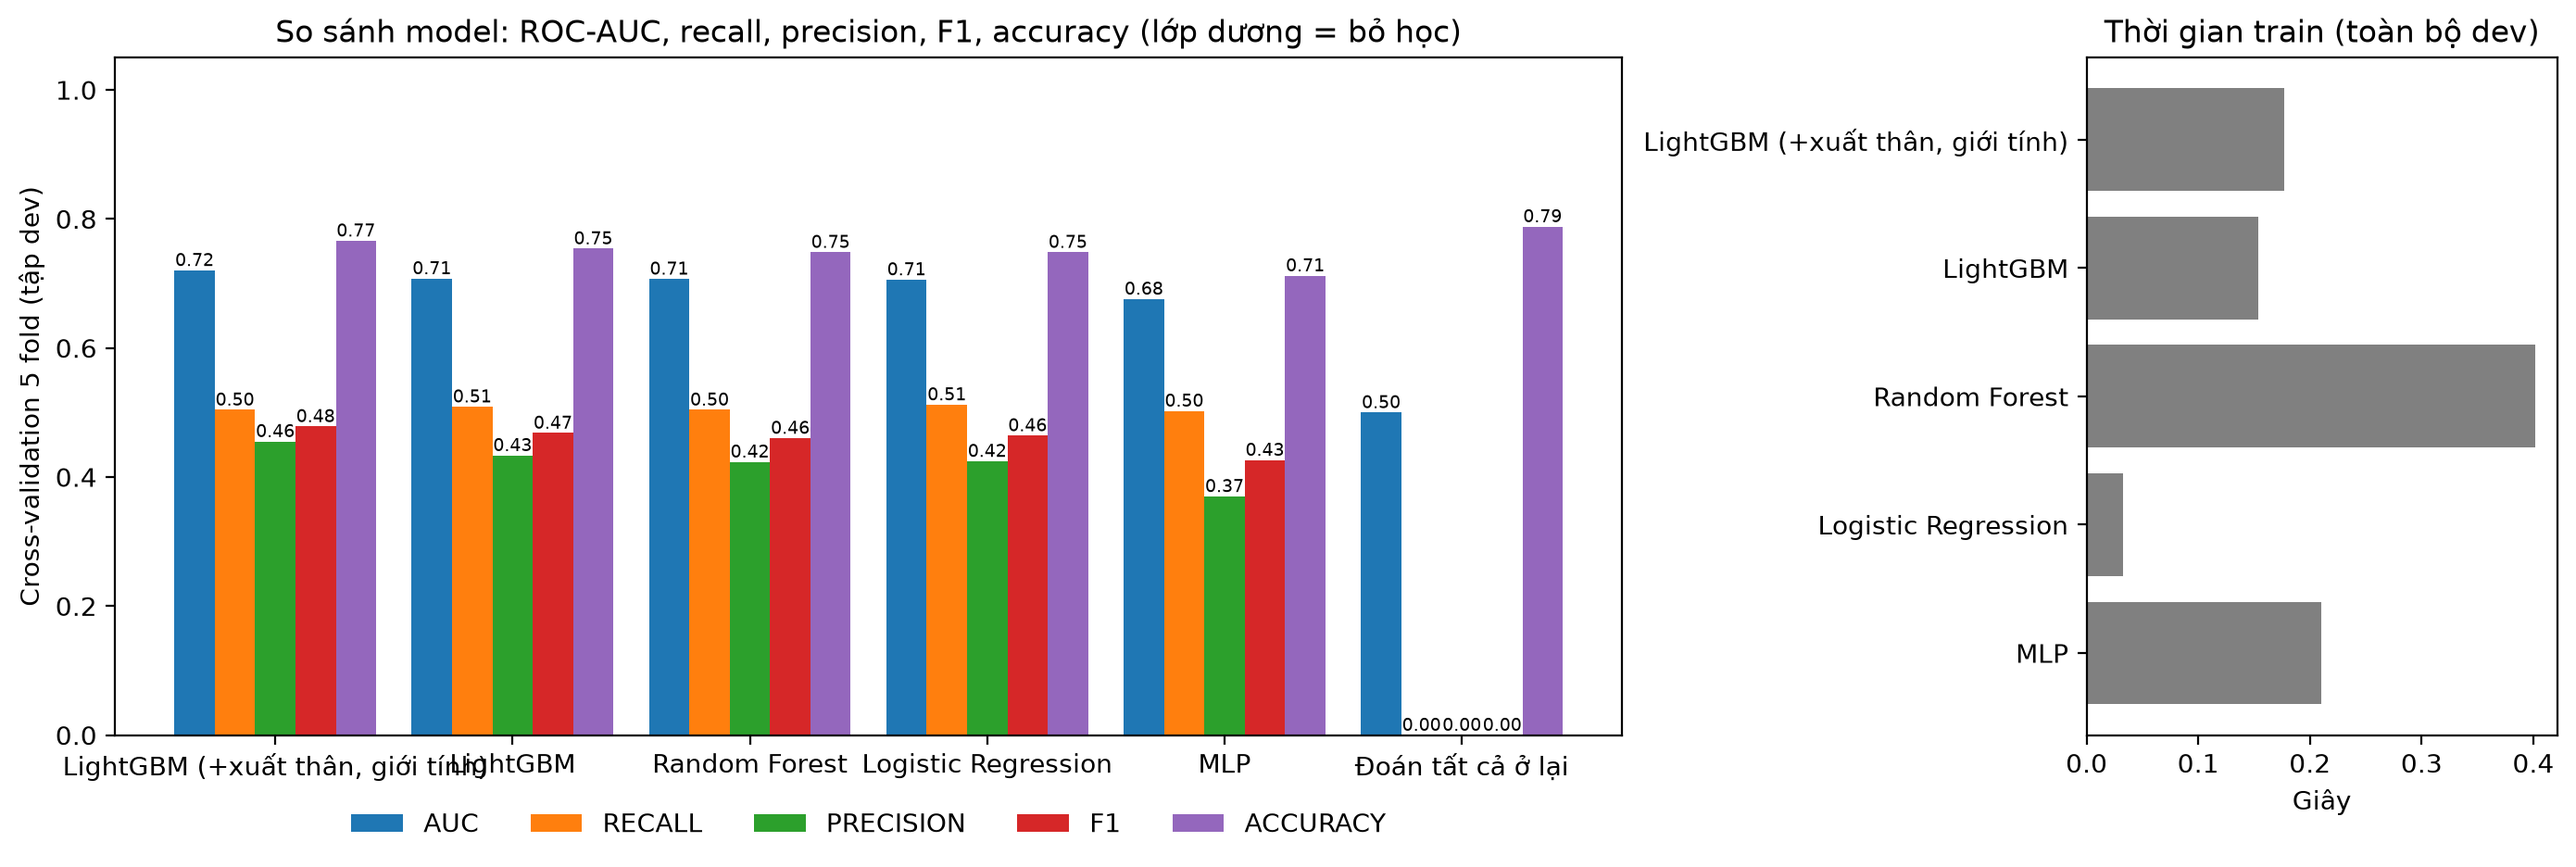
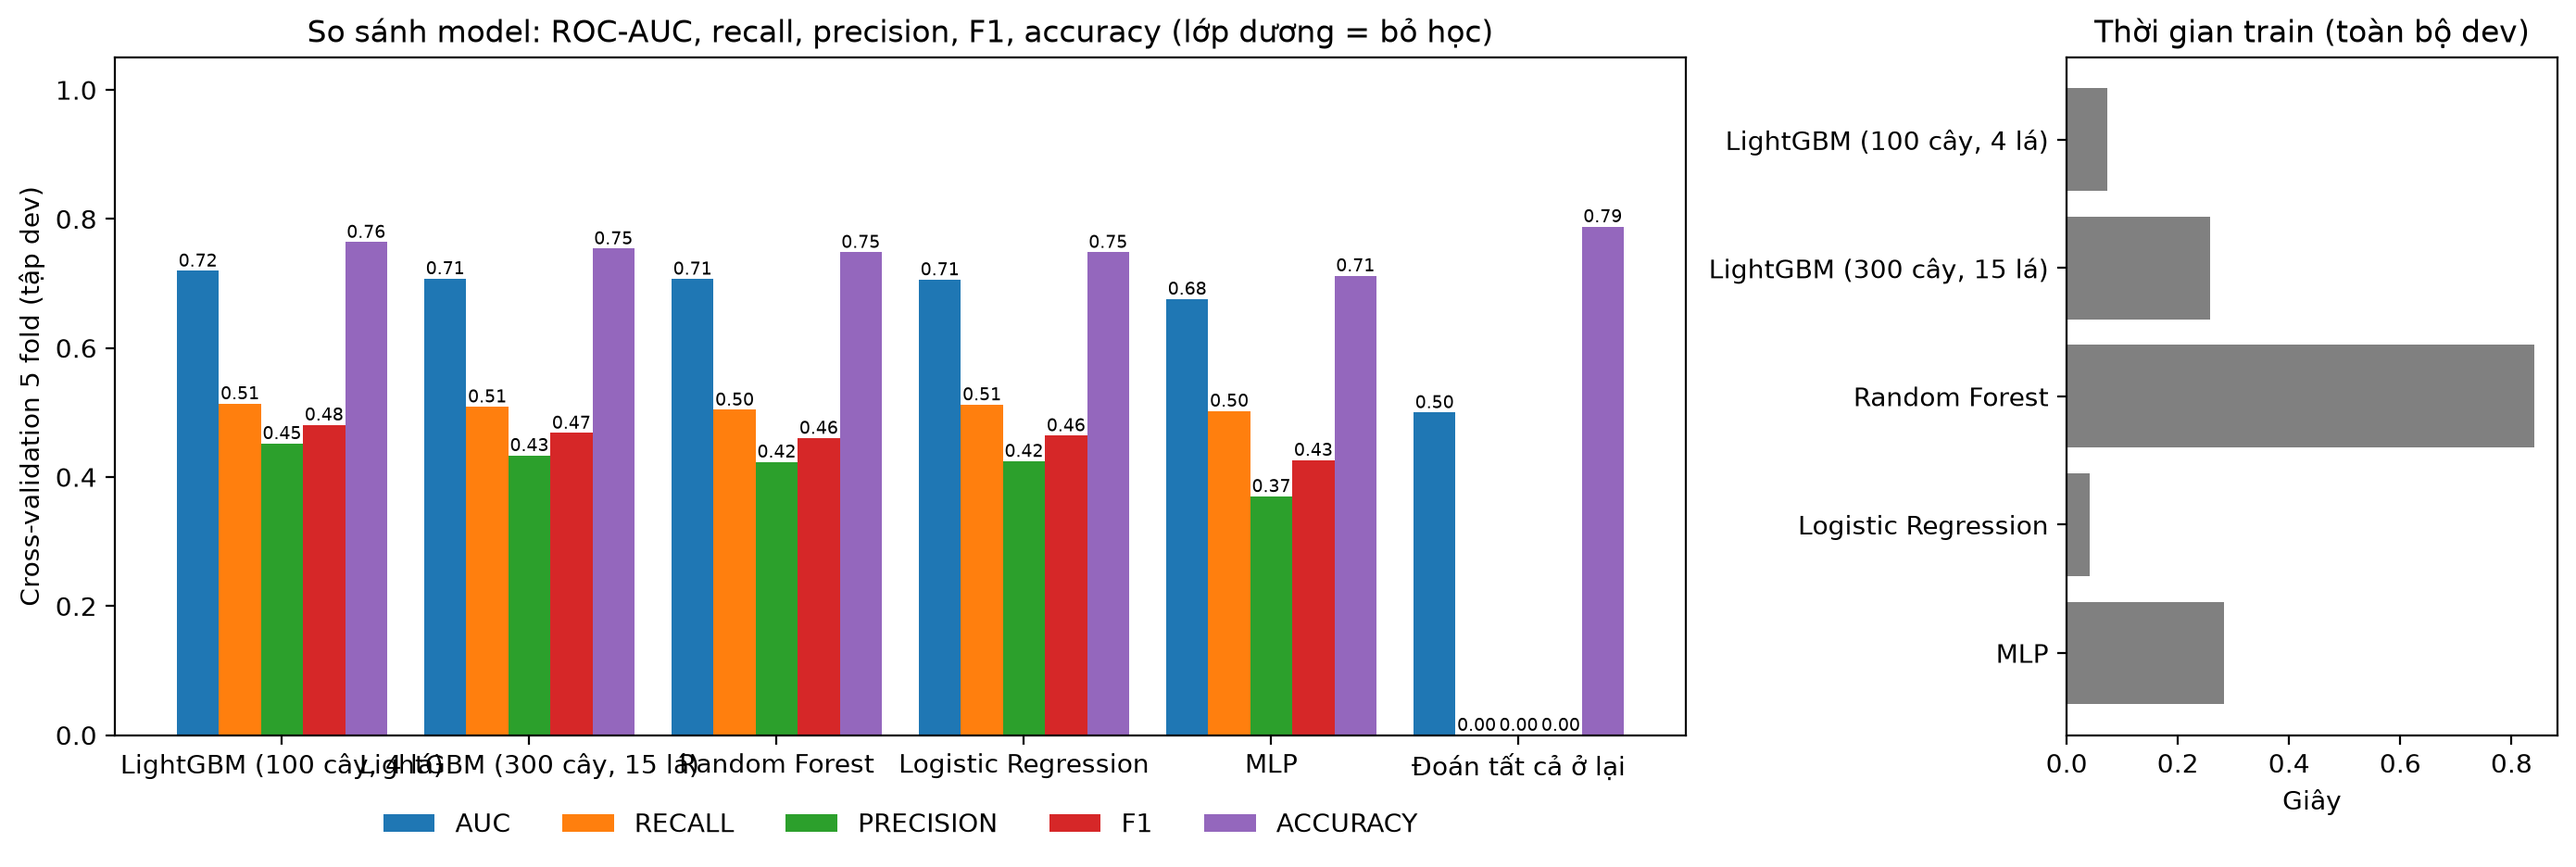
Ket qua Azure ML, sweep LightGBM, chon model cuoi

diff --git a/ml/evaluate.py b/ml/evaluate.py
@@ -74,16 +74,42 @@ def mlflow_client():
     return aml_clients()[1]
 
 
-def load_aml(dst):
+def finished_runs(mlflow, experiment):
+    """Các run đã chạy xong của 1 experiment. Azure ML đặt tên trạng thái khác MLflow gốc
+    (Completed thay vì FINISHED), nên lọc bằng pandas thay vì filter_string của MLflow."""
+    runs = mlflow.search_runs(experiment_names=[experiment])
+    if runs.empty:
+        raise SystemExit(f"Không tìm thấy run nào trong experiment '{experiment}'. "
+                         "Kiểm tra config.json trỏ đúng workspace và job đã chạy xong.")
+    runs = runs[runs["status"].astype(str).str.upper().isin(["FINISHED", "COMPLETED"])]
+    if runs.empty:
+        raise SystemExit(f"Experiment '{experiment}' chưa có run nào chạy xong.")
+    return runs
+
+
+def param(runs, name, default):
+    """Cột tham số của run; run cũ chưa log tham số đó thì coi như giá trị mặc định."""
+    col = f"params.{name}"
+    return runs[col].fillna(default).astype(str) if col in runs else pd.Series(default, index=runs.index)
+
+
+def load_aml(dst, run_ids=None):
     ml, mlflow = aml_clients()
-    runs = mlflow.search_runs(experiment_names=["dropout-models"], filter_string="attributes.status = 'FINISHED'")
-    keep = runs["params.drop_term2"].astype(str) == "0"
-    if "params.drop_sensitive" in runs:          # bản chính thức: không dùng xuất thân, giới tính
-        keep &= runs["params.drop_sensitive"].astype(str).isin(["1", "nan", "None"])
-    runs = runs[keep].sort_values("start_time", ascending=False)
+    runs = finished_runs(mlflow, "dropout-models")
+    if run_ids:                                  # chọn đích danh các job (Name trong tab Overview)
+        runs = runs[runs["run_id"].isin(run_ids)]
+        missing = set(run_ids) - set(runs["run_id"])
+        if missing:
+            raise SystemExit(f"Không tìm thấy job đã chạy xong: {', '.join(sorted(missing))}")
+    else:                                        # mặc định: job mới nhất của mỗi loại model, bản chính thức
+        keep = (param(runs, "drop_term2", "0") == "0") & (param(runs, "drop_sensitive", "1") == "1")
+        keep &= runs["tags.model_name"].notna() & (runs["tags.model_name"] != "benchmark")
+        runs = runs[keep]
+    runs = runs.sort_values("start_time", ascending=False)
     out = []
-    for name, r in runs.groupby("tags.model_name", sort=False):
-        rid = r.iloc[0]["run_id"]                       # run mới nhất của loại model này
+    groups = runs.groupby("run_id", sort=False) if run_ids else runs.groupby("tags.model_name", sort=False)
+    for name, r in groups:
+        rid = r.iloc[0]["run_id"]                       # run mới nhất của loại model này (hoặc job được chỉ định)
         # Tải thư mục outputs/model của job (Azure ML tự lưu ./outputs) bằng SDK, không qua mlflow
         target = dst / rid
         if not any(target.rglob("model.pkl")):
@@ -98,8 +124,16 @@ def load_aml(dst):
 # ---------------------------------------------------------------- biểu đồ
 def plot_compare(models, test):
     """Cột trái: metric cross-validation (5 fold trên tập dev) của từng model + mốc "đoán tất cả ở lại"."""
-    rows = [{"model": NAMES.get(m["meta"]["model_name"], m["meta"]["model_name"])
-             + ("" if m["meta"].get("drop_sensitive", False) else " (+xuất thân, giới tính)"),
+    def label(m):
+        name = NAMES.get(m["meta"]["model_name"], m["meta"]["model_name"])
+        if not m["meta"].get("drop_sensitive", False):
+            name += " (+xuất thân, giới tính)"
+        p = m["meta"].get("params", {})
+        if m["meta"]["model_name"] == "lgbm" and sum(x["meta"]["model_name"] == "lgbm" for x in models) > 1:
+            name += f" ({p.get('n_estimators')} cây, {p.get('num_leaves')} lá)"   # phân biệt bản mặc định / sau sweep
+        return name
+
+    rows = [{"model": label(m),
              **{k: m["meta"]["metrics"][k] for k in SHOW + ["cv_auc_std", "test_auc", "train_seconds"]}}
             for m in models]
     df = pd.DataFrame(rows).sort_values("cv_auc", ascending=False)
@@ -136,7 +170,7 @@ def plot_roc(models, test):
 
 def plot_sweep():
     mlflow = mlflow_client()
-    runs = mlflow.search_runs(experiment_names=["dropout-sweep"], filter_string="attributes.status = 'FINISHED'")
+    runs = finished_runs(mlflow, "dropout-sweep")      # gồm cả job cha (không có metric) -> bị loại ở dòng dưới
     runs = runs.dropna(subset=["metrics.cv_auc"])
     params = [c for c in runs.columns if c.startswith("params.")
               and c.split(".", 1)[1] in ("n_estimators", "learning_rate", "num_leaves", "min_samples_leaf", "max_depth")
@@ -225,16 +259,18 @@ def write_sql(df):
 def main():
     ap = argparse.ArgumentParser()
     ap.add_argument("--aml", action="store_true")
+    ap.add_argument("--runs", nargs="*", default=None,
+                    help="dùng với --aml: Name các job muốn so sánh (mặc định: job mới nhất của mỗi model)")
     ap.add_argument("--local", nargs="*", default=[])
     ap.add_argument("--data", required=True)
     ap.add_argument("--major-faculty", default=None)
     ap.add_argument("--sweep", action="store_true")
-    ap.add_argument("--best", default=None, help="tên model chọn làm model cuối (mặc định: cv_auc cao nhất)")
+    ap.add_argument("--best", default=None, help="model cuối: Name của job (vd purple_pin_...) hoặc loại model (lgbm); mặc định: cv_auc cao nhất")
     ap.add_argument("--sql", action="store_true")
     a = ap.parse_args()
     FIG.mkdir(exist_ok=True)
 
-    models = load_aml(HERE / "downloads") if a.aml else [load_dir(d) for d in a.local]
+    models = load_aml(HERE / "downloads", a.runs) if a.aml else [load_dir(d) for d in a.local]
     if not models:
         raise SystemExit("Không có model nào: dùng --aml hoặc --local <thư mục>")
     dev, test = split_data(load_features(a.data, a.major_faculty))
@@ -245,8 +281,13 @@ def main():
         plot_sweep()
     # Model chính thức chỉ chọn trong các bản KHÔNG dùng xuất thân, giới tính; bản có dùng chỉ để so sánh.
     official = [m for m in models if m["meta"].get("drop_sensitive", True)] or models
-    best = (next(m for m in official if m["meta"]["model_name"] == a.best) if a.best
-            else max(official, key=lambda m: m["meta"]["metrics"]["cv_auc"]))
+    if a.best:                                   # Name của job (ưu tiên) hoặc tên loại model
+        match = [m for m in models if m["run_id"] == a.best] or [m for m in official if m["meta"]["model_name"] == a.best]
+        if not match:
+            raise SystemExit(f"--best {a.best}: không khớp job hay loại model nào trong danh sách")
+        best = match[0]
+    else:
+        best = max(official, key=lambda m: m["meta"]["metrics"]["cv_auc"])
     report = evaluate_best(best, test, dev)
 
     mm = metrics_rows(models)

diff --git a/ml/figures/ket_qua.md b/ml/figures/ket_qua.md
@@ -2,14 +2,14 @@
 
 | model | cv_auc | cv_recall | cv_precision | cv_f1 | cv_accuracy | cv_auc_std | test_auc | train_seconds |
 |---|---|---|---|---|---|---|---|---|
-| LightGBM (+xuất thân, giới tính) | 0.7203 | 0.5041 | 0.4552 | 0.4784 | 0.7661 | 0.0179 | 0.7932 | 0.1772 |
-| LightGBM | 0.7076 | 0.5089 | 0.4335 | 0.4682 | 0.754 | 0.0199 | 0.7892 | 0.1537 |
-| Random Forest | 0.707 | 0.5041 | 0.4235 | 0.4603 | 0.7484 | 0.0342 | 0.77 | 0.4015 |
-| Logistic Regression | 0.706 | 0.5122 | 0.4245 | 0.4643 | 0.7484 | 0.019 | 0.776 | 0.0329 |
-| MLP | 0.676 | 0.5024 | 0.3701 | 0.4262 | 0.7121 | 0.0374 | 0.7594 | 0.2105 |
+| LightGBM (100 cây, 4 lá) | 0.7195 | 0.5138 | 0.4521 | 0.481 | 0.764 | 0.0341 | 0.753 | 0.0724 |
+| LightGBM (300 cây, 15 lá) | 0.7076 | 0.5089 | 0.4335 | 0.4682 | 0.754 | 0.0199 | 0.7892 | 0.2578 |
+| Random Forest | 0.707 | 0.5041 | 0.4235 | 0.4603 | 0.7484 | 0.0342 | 0.77 | 0.8406 |
+| Logistic Regression | 0.706 | 0.5122 | 0.4245 | 0.4643 | 0.7484 | 0.019 | 0.776 | 0.042 |
+| MLP | 0.676 | 0.5024 | 0.3701 | 0.4262 | 0.7121 | 0.0374 | 0.7594 | 0.283 |
 | Đoán tất cả ở lại | 0.5 | 0.0 | 0.0 | 0.0 | 0.7882 | nan | nan | nan |
 
-Model chọn: **LightGBM** (run `out_lgbm`), ngưỡng 0.23
+Model chọn: **LightGBM** (run `purple_pin_hhkg5dhtnb`), ngưỡng 0.23
 
 ```
               precision    recall  f1-score   support
